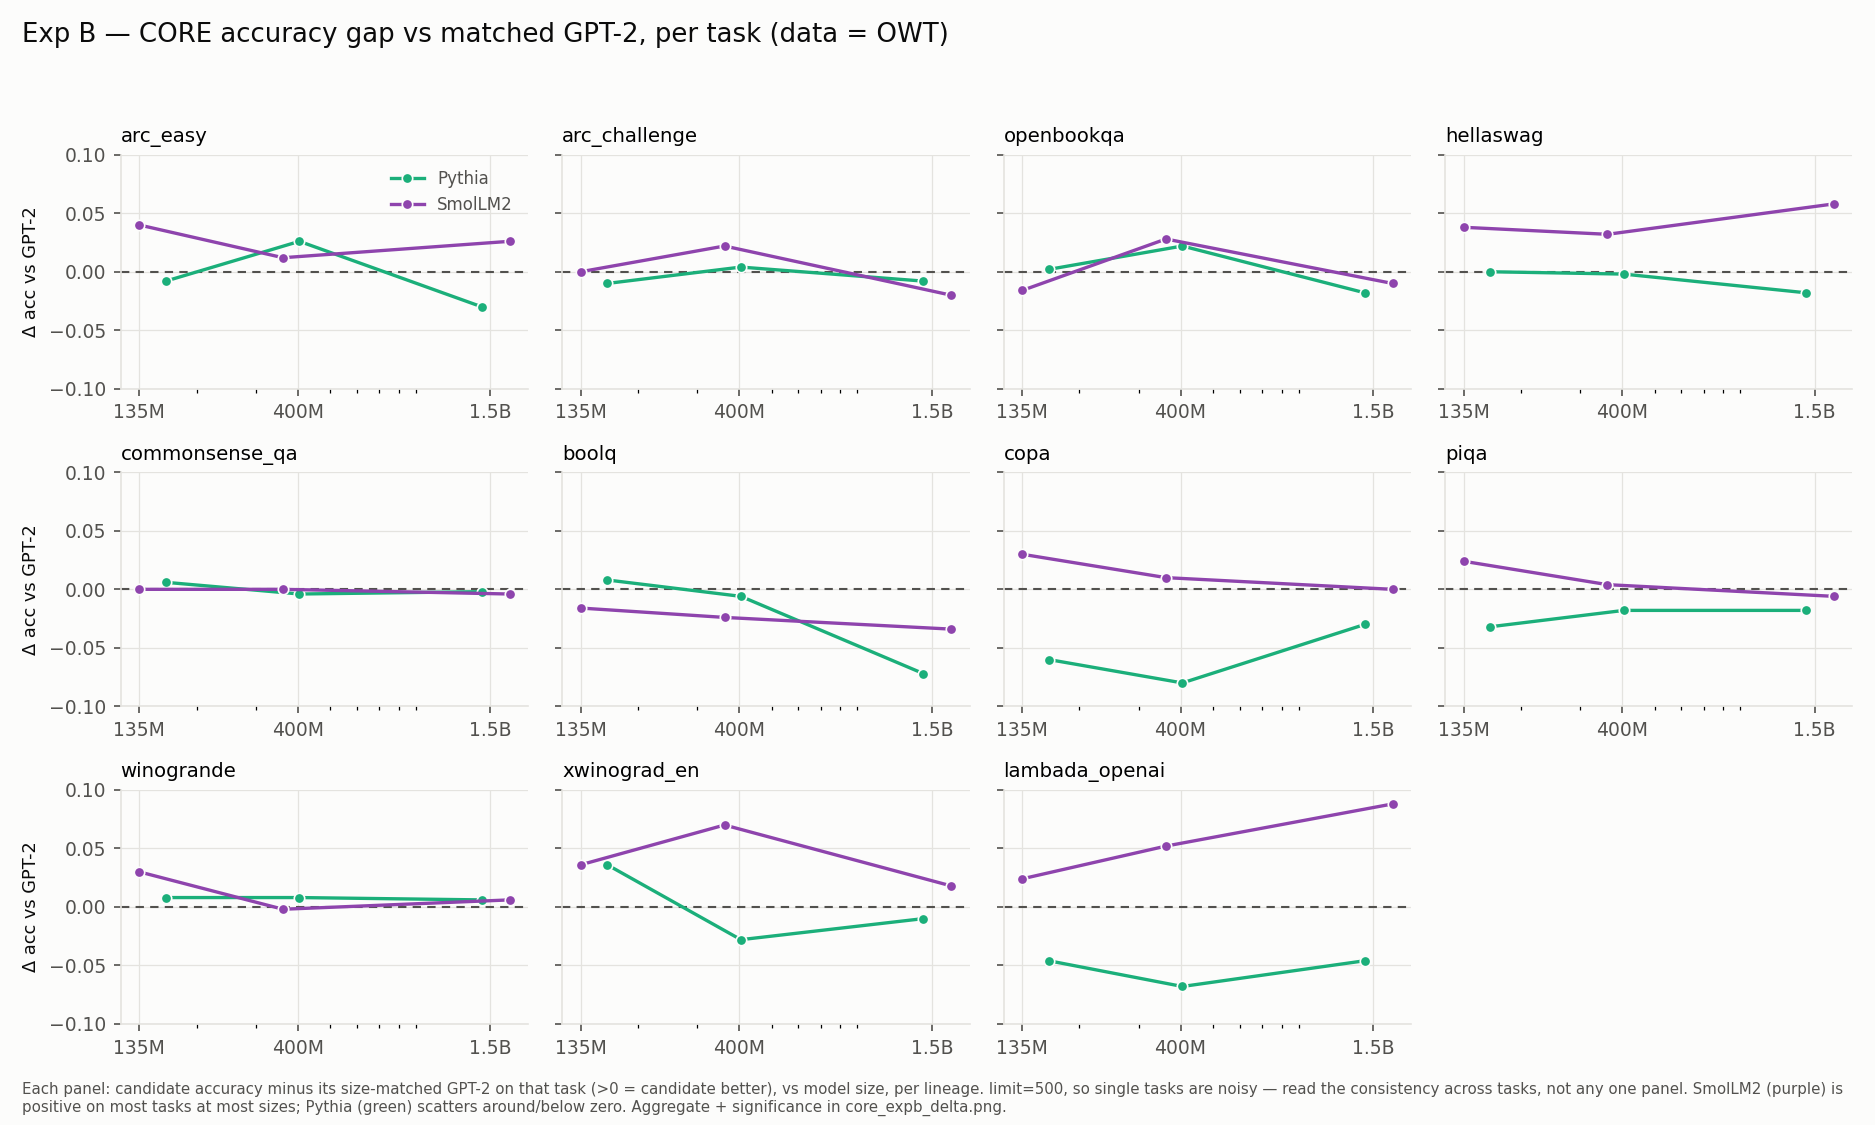
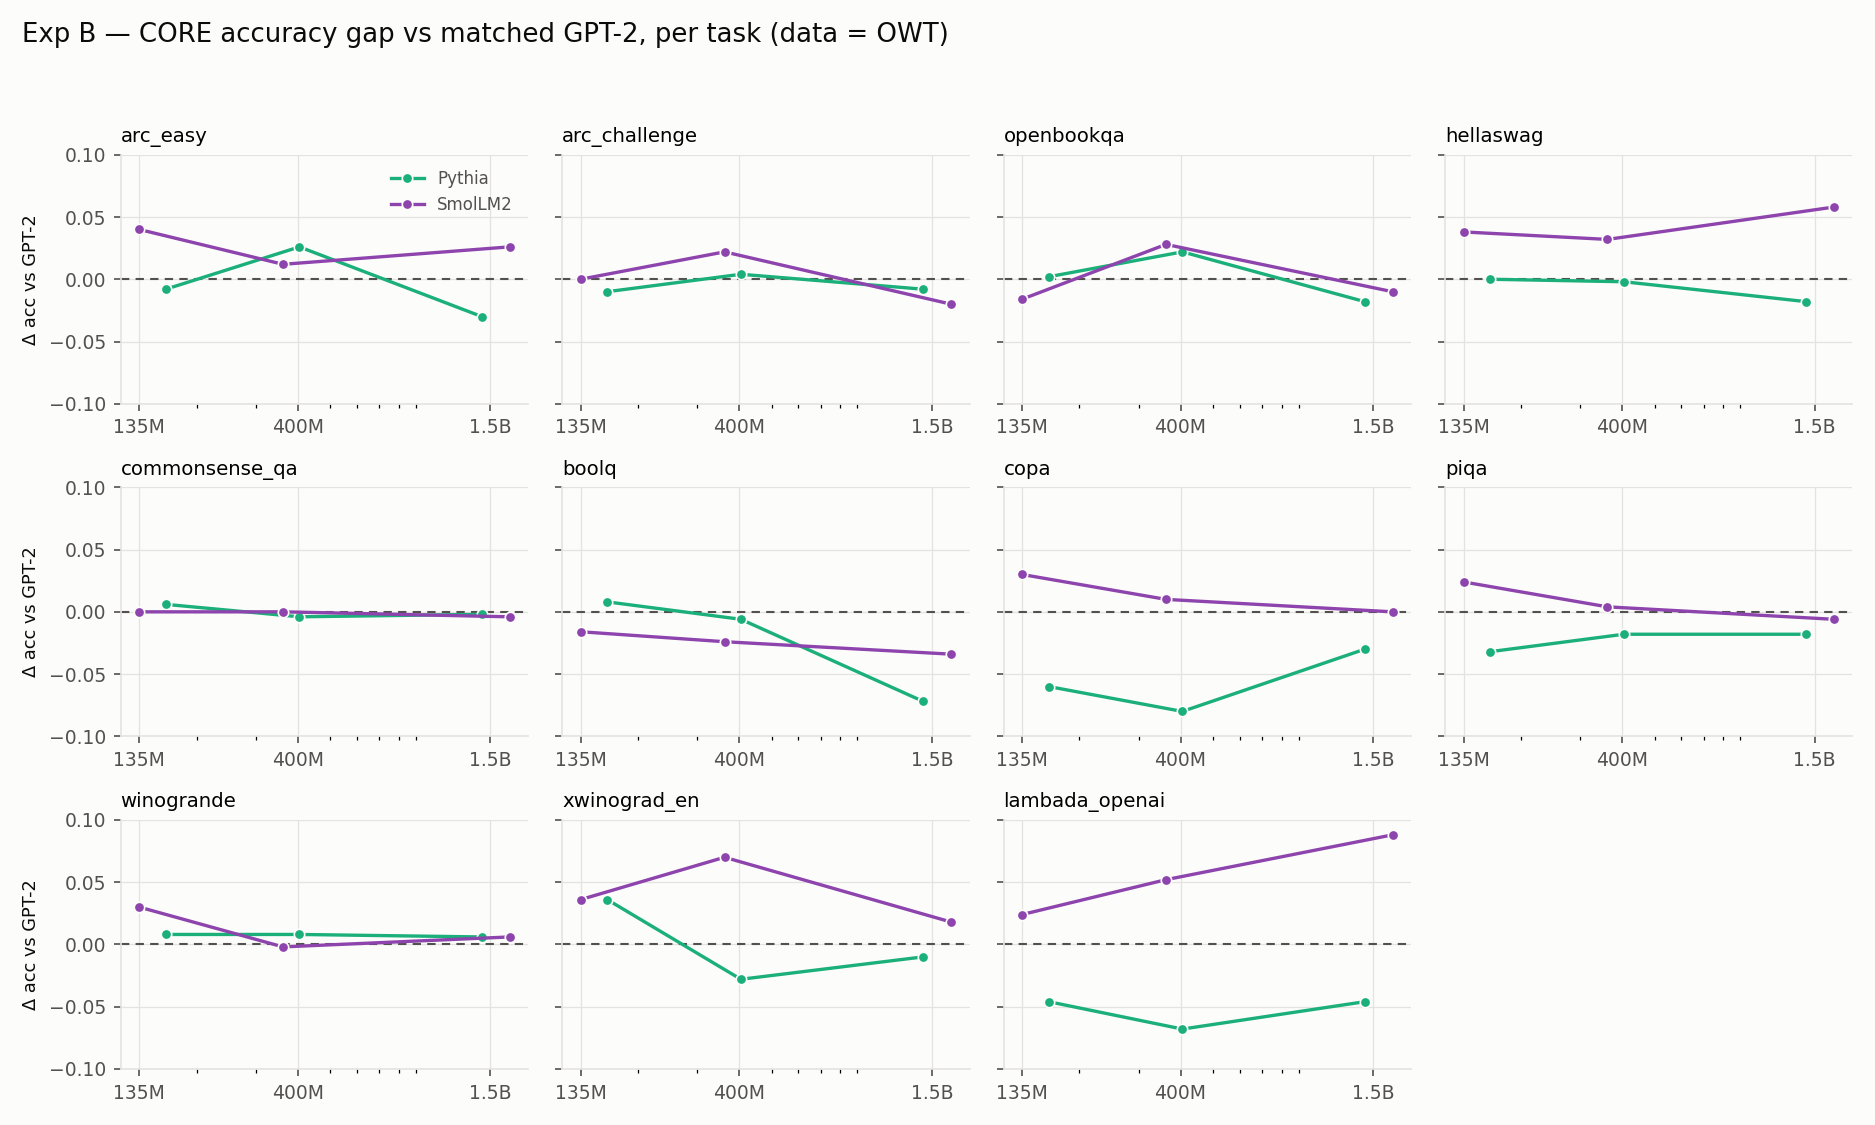
Figure-quality pass: remove verbose AI-style footnotes (detail lives in report text), fix duplicate x-labels + overlapping annotations, clarify axis labels, move legends clear of data — across all report figures

diff --git a/analysis/plots.py b/analysis/plots.py
@@ -256,40 +256,31 @@ def multipliers_vs_scale(curves: dict, out_path, censored: dict = None):
                 ax.annotate(f"{y:.1f}×", xy=(x, y), xytext=(0, 9),
                             textcoords="offset points", fontsize=8.5,
                             color=INK, ha="center")
-        # Exp B censored lineages: algorithm panel only, hollow v at 1x parity line
+        # Exp B censored lineages: algorithm panel only, hollow v at the 1x parity line
         if censored and ax is ax1:
             ax.axhline(1.0, color=GRID, lw=1.2, ls=(0, (4, 3)), zorder=1)
-            ax.annotate("1× = parity with matched GPT-2 (no algorithm gain)",
-                        xy=(600, 1.0), xytext=(0, 5), textcoords="offset points",
-                        ha="center", va="bottom", fontsize=7.3, color=INK2)
+            ax.annotate("1× (parity with matched GPT-2)", xy=(1, 1.0),
+                        xycoords=("axes fraction", "data"), xytext=(-4, 4),
+                        textcoords="offset points", ha="right", va="bottom",
+                        fontsize=8, color=INK2)
             for lname, e in censored.items():
                 ax.scatter(e["scales"], [1.0] * len(e["scales"]), marker="v",
                            s=85, facecolors="none", edgecolors=e["color"],
                            linewidths=1.8, zorder=4, label=e["label"])
-                for x, txt in e.get("annot", {}).items():
-                    ax.annotate(txt, xy=(x, 1.0), xytext=(-6, 12),
-                                textcoords="offset points", ha="right", va="bottom",
-                                fontsize=6.8, color=e["color"],
-                                arrowprops=dict(arrowstyle="-", color=e["color"], lw=0.7))
         ax.set_xscale("log"); ax.set_yscale("log")
         ax.set_xticks([124, 355, 1536])
         ax.set_xticklabels(["124M", "355M", "1.5B"])
-        ax.set_xlabel("Model size")
+        ax.set_xlabel("Model size (parameters)")
         ax.set_title(ttl, fontsize=11, loc="left")
         _style(ax)
         ax.set_ylim(0.82, max(20, ax.get_ylim()[1]))
-    ax1.set_ylabel("Compute-reduction multiplier")
-    ax1.legend(frameon=False, fontsize=7.4, labelcolor=INK2, loc="upper right")
+    ax1.set_ylabel("Compute-reduction multiplier  (×, log)")
+    handles, labels = ax1.get_legend_handles_labels()
+    fig.legend(handles, labels, frameon=False, fontsize=8, labelcolor=INK2,
+               loc="upper center", ncol=2, bbox_to_anchor=(0.5, 0.94))
     fig.suptitle("Compute-equivalent-gain multipliers vs model scale",
-                 fontsize=12.5, x=0.012, ha="left", color=INK)
-    note = ("Different estimators — NOT directly comparable.  current-arch "
-            "(solid, filled) = true 2-ordering Shapley;  ScaleUp (dashed, open sq.) "
-            "= single censored margin (A1D0 never crosses).  Exp B (open ▽ at 1×) = "
-            "algorithm-CEG vs a MATCHED GPT-2, data fixed (no data panel); every arm "
-            "is censored (converged BPB stays above the GPT-2 threshold → ≤1×, no algo "
-            "gain).  SmolLM2 360M/1.7B are additionally divergence-confounded.")
-    fig.text(0.012, 0.02, note, fontsize=7.2, color=INK2, va="bottom", wrap=True)
-    fig.tight_layout(rect=(0, 0.12, 1, 0.94))
+                 fontsize=12.5, x=0.012, ha="left", color=INK, y=0.995)
+    fig.tight_layout(rect=(0, 0, 1, 0.82))
     fig.savefig(out_path, facecolor=SURFACE)
     plt.close(fig)
 
@@ -322,23 +313,12 @@ def core_expb_delta_vs_scale(root: Path, out_path):
     ax.xaxis.set_minor_formatter(matplotlib.ticker.NullFormatter())
     ax.set_xlim(115, 2050)
     ax.set_ylim(-0.035, 0.035)
-    ax.set_xlabel("Model size (log)")
-    ax.set_ylabel("CORE mean-accuracy gap vs matched GPT-2")
+    ax.set_xlabel("Model size (parameters, log)")
+    ax.set_ylabel("CORE mean-accuracy gap vs matched GPT-2\n(11 tasks, +ve = beats GPT-2)")
     ax.set_title("Exp B — downstream-task (CORE) gap vs matched GPT-2, by scale (data = OWT)",
                  fontsize=11, loc="left")
     ax.legend(frameon=False, fontsize=9, labelcolor=INK2, loc="upper left")
-    fig.text(0.012, 0.012,
-             "y = each architecture's mean accuracy across 11 CORE tasks MINUS its size-matched "
-             "GPT-2's mean, both trained on OpenWebText and scored through the same harness "
-             "(limit=500 examples/task). Above 0 = the architecture beats GPT-2 on downstream "
-             "tasks. Error bars are ±1 standard error of that mean gap (per-task stderrs from "
-             "lm-eval, combined across the 11 tasks). SECONDARY to the BPB/CEG result. Pythia is "
-             "at/below parity and falls with scale (matching its BPB deficit); SmolLM2 sits "
-             "modestly above parity at every scale (~1.7σ; wins 7 of 11 tasks at small size) — a "
-             "downstream edge that neutral BPB, where SmolLM2 is only parity-or-worse, misses. "
-             "Per-task breakdown: core_expb_by_task.png.",
-             fontsize=7.0, color=INK2, va="bottom", wrap=True)
-    fig.tight_layout(rect=(0, 0.075, 1, 1))
+    fig.tight_layout()
     fig.savefig(out_path, facecolor=SURFACE); plt.close(fig)
 
 
@@ -381,14 +361,7 @@ def core_expb_by_task(root: Path, out_path):
         axes[r, 0].set_ylabel("Δ acc vs GPT-2", fontsize=8.5)
     fig.suptitle("Exp B — CORE accuracy gap vs matched GPT-2, per task (data = OWT)",
                  fontsize=12.5, x=0.012, ha="left", color=INK)
-    fig.text(0.012, 0.008,
-             "Each panel: candidate accuracy minus its size-matched GPT-2 on that task "
-             "(>0 = candidate better), vs model size, per lineage. limit=500, so single "
-             "tasks are noisy — read the consistency across tasks, not any one panel. "
-             "SmolLM2 (purple) is positive on most tasks at most sizes; Pythia (green) "
-             "scatters around/below zero. Aggregate + significance in core_expb_delta.png.",
-             fontsize=7.2, color=INK2, va="bottom", wrap=True)
-    fig.tight_layout(rect=(0, 0.04, 1, 0.95))
+    fig.tight_layout(rect=(0, 0, 1, 0.95))
     fig.savefig(out_path, facecolor=SURFACE); plt.close(fig)
 
 
@@ -508,17 +481,11 @@ def core_vs_scale(root: Path, out_path):
                loc="upper center", ncol=6, bbox_to_anchor=(0.5, 0.93))
     fig.suptitle("CORE task accuracy vs model size", fontsize=12.5, x=0.012,
                  ha="left", color=INK, y=0.985)
-    fig.text(0.012, 0.008,
-             "A0D0 (old-algo / old-data) GPT-2 baseline accuracy per task, "
-             "limit=500 (the gate reference). Two tracks match the report's two "
-             "curves: solid = current-arch (124M→355M, no 1.5B point); dashed = "
-             "ScaleUp (124M→1.5B, skipping its 355M gap); the 124M node is the "
-             "shared baseline. Filled = passed the 2σ>chance validity gate; "
-             "hollow = below it (e.g. boolq sits at chance at 124M, clears from "
-             "355M). Chance differs by task (0.25 four-way; 0.50 binary). "
-             "Secondary metric — BPB is primary.", fontsize=7.0, color=INK2,
-             va="bottom", wrap=True)
-    fig.tight_layout(rect=(0, 0.085, 1, 0.88))
+    fig.text(0.012, 0.01,
+             "GPT-2 (A0D0) baseline accuracy per task. Filled = passed the 2σ-above-chance "
+             "validity gate; hollow = below it. Secondary metric — BPB is primary.",
+             fontsize=7.5, color=INK2, va="bottom")
+    fig.tight_layout(rect=(0, 0.05, 1, 0.88))
     fig.savefig(out_path, facecolor=SURFACE)
     plt.close(fig)
 
@@ -596,22 +563,12 @@ def core_arms_by_task(root: Path, out_path):
                loc="upper center", ncol=4, bbox_to_anchor=(0.5, 0.955))
     fig.suptitle("CORE accuracy across all four arms", fontsize=12.5, x=0.012,
                  ha="left", color=INK, y=0.99)
-    fig.text(0.012, 0.006,
-             "Each panel is one gate-usable task; points are the four arms at "
-             "124M / 355M / 1.5B with ±1 stderr bars taken directly from lm-eval "
-             "(≈0.021–0.022 per task, except copa ≈0.048 — it has only 100 "
-             "examples vs 500).  This is a QUALITATIVE companion to the BPB "
-             "result, NOT a second CEG claim — at this noise level most arm gaps "
-             "overlap within error.  The clearest recurring hint is new-data (D1) "
-             "arms edging "
-             "out their old-data (D0) counterparts on arc_easy and piqa at every "
-             "scale (sizable on arc_easy, within ~1–2 stderr on piqa); boolq "
-             "shows no such pattern, so it is task-specific, not universal.  Read "
-             "as directionally suggestive only — BPB remains the primary, "
-             "decisive metric.  (A1 = current modded speedrun at 124M/355M, "
-             "2024-ScaleUp at 1.5B; nothing is connected across scale.)",
-             fontsize=7.0, color=INK2, va="bottom", wrap=True)
-    fig.tight_layout(rect=(0, 0.11 if nrow == 2 else 0.07, 1, 0.90))
+    fig.text(0.012, 0.01,
+             "One gate-usable task per panel; the four arms at 124M / 355M / 1.5B with ±1 stderr "
+             "(points not connected — arms are compared within each scale). Qualitative companion "
+             "to BPB, not a second CEG claim — most arm gaps overlap within error.",
+             fontsize=7.5, color=INK2, va="bottom")
+    fig.tight_layout(rect=(0, 0.05 if nrow == 2 else 0.03, 1, 0.90))
     fig.savefig(out_path, facecolor=SURFACE)
     plt.close(fig)
 

diff --git a/analysis/plot_era_ladder.py b/analysis/plot_era_ladder.py
@@ -43,12 +43,6 @@ def series(key, color, label, dx=0.0):
 series("old_algo", OLD_C, "old-algo (GPT-2, 123.7M params)", dx=-0.4)
 xs2, ys2 = series("current_arch", NEW_C, "current-arch (modded, 498.8M params)", dx=+0.4)
 
-# direct dataset labels along the x axis
-for ds in order:
-    e = L["datasets"][ds]
-    ax.annotate(f"{ds}\n{e['release_year']}", (e["release_year"], 0.30),
-                ha="center", va="top", fontsize=8.5, color=INK2, annotation_clip=False)
-
 # baseline line at CEG=1 (old-algo OWT reference)
 ax.axhline(1.0, color=GRID, lw=1, ls="--", zorder=1)
 ax.annotate("old-algo OWT baseline (1×)", (2024.05, 1.0), fontsize=7.5,
@@ -61,16 +55,12 @@ ax.annotate("C4 (2020): no crossing — neutral BPB stays\nabove the OWT thresho
 ax.set_ylim(0.28, 60)
 ax.set_xlim(2018.6, 2024.6)
 ax.set_xticks([2019, 2020, 2023, 2024])
-ax.set_ylabel("compute-equivalent gain vs old-algo OWT  (× , log)")
-ax.set_xlabel("training-set release year")
-ax.set_title("Exp A · data-era ladder @124M (matched dims, not params)", fontsize=11, pad=16)
-fig.text(0.5, 0.905,
-         f'neutral BPB on wiki_eval_union; threshold {THR:.4f}. '
-         f'algo CEG = gap between curves (OWT {L["datasets"]["OWT"]["algo_ceg_at_dataset"]:.1f}×, '
-         f'DCLM {L["datasets"]["DCLM"]["algo_ceg_at_dataset"]:.1f}×)',
-         ha="center", fontsize=8, color=INK2)
+ax.set_xticklabels([f"{ds}\n{L['datasets'][ds]['release_year']}" for ds in order])
+ax.set_ylabel("Compute-equivalent gain vs old-algo on OWT  (×, log)")
+ax.set_xlabel("Training-data corpus (release year)")
+ax.set_title("Exp A — data-era ladder (@124M)", fontsize=11.5, loc="left")
 ax.legend(loc="center left", frameon=False, fontsize=8.5)
-fig.tight_layout(rect=[0, 0, 1, 0.98])
+fig.tight_layout()
 Path("results").mkdir(exist_ok=True)
 fig.savefig("results/era_ladder.png", facecolor=SURFACE, bbox_inches="tight")
 print("wrote results/era_ladder.png")

diff --git a/analysis/plot_core_era.py b/analysis/plot_core_era.py
@@ -26,22 +26,14 @@ ax.plot(xs, old, "-o", color="#2a78d6", lw=2, ms=8, label="old algorithm (GPT-2)
         markeredgecolor=SURFACE, markeredgewidth=1.4)
 ax.plot(xs, new, "-s", color="#eb6834", lw=2, ms=8, label="new algorithm (current-arch)",
         markeredgecolor=SURFACE, markeredgewidth=1.4)
-for c in order:
-    ax.annotate(f"{c}\n{C[c]['year']}", (C[c]["year"], min(old + new) - 0.018),
-                ha="center", va="top", fontsize=8.5, color=INK2, annotation_clip=False)
-ax.set_xticks(xs); ax.set_xticklabels([str(x) for x in xs])
+ax.set_xticks(xs)
+ax.set_xticklabels([f"{c}\n{C[c]['year']}" for c in order])
 ax.set_ylim(min(old + new) - 0.03, max(old + new) + 0.02)
 ax.set_xlabel("Training-data corpus (release year)")
 ax.set_ylabel("Mean CORE accuracy (gate-usable tasks)")
 ax.set_title("Exp A — CORE downstream accuracy across data eras (124M)", fontsize=11.5, loc="left")
 ax.legend(frameon=False, fontsize=9, labelcolor=INK2, loc="upper left")
-fig.text(0.012, 0.012,
-         "Mean accuracy over the gate-usable CORE tasks (old-algo clears chance by 2σ), per corpus, at 124M. "
-         "SECONDARY / qualitative: at 124M and limit=500 the old-vs-new gap is within ±0.02 (≈ stderr) at every "
-         "corpus — CORE is a sanity check here, not a quantitative claim (the data story lives in BPB/CEG). "
-         "OWT/DCLM from the 2×2 study; C4/RefinedWeb from the faithful retrain.",
-         fontsize=7.0, color=INK2, va="bottom", wrap=True)
-fig.tight_layout(rect=(0, 0.09, 1, 1))
+fig.tight_layout()
 out = Path(__file__).resolve().parent.parent / "results" / "core_era_ladder.png"
 fig.savefig(out, facecolor=SURFACE); plt.close(fig)
 print("wrote", out)

diff --git a/analysis/plot_data_ladder.py b/analysis/plot_data_ladder.py
@@ -61,15 +61,7 @@ ax.set_ylabel("Data-CEG vs matched GPT-2 on OWT (log)")
 ax.set_title("Exp B — data axis: better data flips new architectures from losing to beating GPT-2",
              fontsize=11, loc="left")
 ax.legend(frameon=False, fontsize=9, labelcolor=INK2, loc="upper left")
-fig.text(0.012, 0.012,
-         "Each architecture (small size) trained from scratch on each corpus; compared to ONE fixed "
-         "external bar — the size-matched GPT-2 trained on OWT. On OWT (2019) and C4 (2020) both "
-         "architectures are censored: they never reach the bar (they lose to a matched GPT-2, the "
-         "Exp B / B1 result). On RefinedWeb (2023) and DCLM (2024) both cross it, reaching GPT-2's "
-         "OWT quality with 4.6-6.4× less compute. C4 worse than OWT for BOTH archs independently "
-         "cross-validates Exp A's non-monotonic-in-release-year finding.",
-         fontsize=7.0, color=INK2, va="bottom", wrap=True)
-fig.tight_layout(rect=(0, 0.08, 1, 1))
+fig.tight_layout()
 out = Path(__file__).resolve().parent.parent / "results" / "data_ladder_expB.png"
 fig.savefig(out, facecolor=SURFACE); plt.close(fig)
 print("wrote", out)

diff --git a/analysis/plot_core_era_by_task.py b/analysis/plot_core_era_by_task.py
@@ -74,13 +74,7 @@ for r in range(nrow):
 axf[0].legend(frameon=False, fontsize=8, labelcolor=INK2, loc="best")
 fig.suptitle("Exp A — CORE accuracy per task, old vs new algorithm across data eras (124M)",
              fontsize=12.5, x=0.012, ha="left", color=INK)
-fig.text(0.012, 0.008,
-         "One panel per CORE task; old-algorithm (blue) vs new-algorithm (orange) accuracy at 124M as the "
-         "training corpus advances in time, ±1 stderr. SECONDARY / qualitative: at 124M and limit=500 the two "
-         "algorithms overlap within error on essentially every task/corpus — CORE is a sanity check, the "
-         "data-quality signal lives in BPB/CEG. OWT/DCLM from the 2x2 study; C4/RefinedWeb from the faithful retrain.",
-         fontsize=7.0, color=INK2, va="bottom", wrap=True)
-fig.tight_layout(rect=(0, 0.05, 1, 0.95))
+fig.tight_layout(rect=(0, 0, 1, 0.95))
 out = ROOT / "core_era_by_task.png"
 fig.savefig(out, facecolor=SURFACE); plt.close(fig)
 print("wrote", out)
